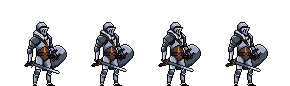
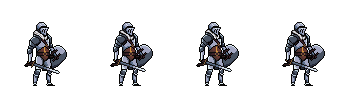
v0.1.1

diff --git a/Characters.py b/Characters.py
@@ -4,24 +4,50 @@ from customFunctions import load_sprite_sheets
 
 class Characters(pg.sprite.Sprite):
     GRAVITY = 50
-    def __init__(self, sprite_dir1, sprite_dir2,sprite_w, sprite_h, x, y, speed, jump_p, scale = 2):
+    def __init__(self, sprite_dir1, sprite_dir2,sprite_w, sprite_h, x, y,speed, jump_p,
+                 strength,dmg,hp, scale = 2):
         super().__init__()
         self.size = (sprite_w*scale, sprite_h*scale)
         self.sprites = load_sprite_sheets(sprite_dir1, sprite_dir2, sprite_w, sprite_h, scale=scale)
         self.sprite = self.sprites["Idle_right"][0]
         self.pos = list((x, y))
         self.vel = list((0, 0))
+        self.hp = hp
         self.rect = pg.Rect(x,y,sprite_w, sprite_h)
         self.jump_p = jump_p
-        self.speed = speed
+        self.speed = speed / 20
+        self.str = strength /20
+        self.dmg = dmg
         self.anim_count = 0
+        self.animation_time = 7
         self.fall_count = 0
         self.mask = pg.mask.from_surface(self.sprite)
         self.collision_x = False
         self.collision_y = False
+        self.dead = False
+        self.direction = "right"
+        self.type = "Character"
+        self.collide_with = ["Object"]
+        self.attack_rect = pg.Rect(x+self.size[0]//2, y + self.size[1] //2, sprite_w, sprite_h//3)
 
-    def draw(self, surface):
-        surface.blit(self.sprite, (self.pos[0], self.pos[1]))
+    def draw(self, surface, offset):
+        if self.vel[0] == 0 and self.vel[1] == 0:
+            self.sprite = self.sprites["Idle_"+self.direction][
+                self.anim_count // self.animation_time % len(self.sprites["Idle_"+self.direction])]
+        elif self.vel[0] != 0 and self.vel[1] == 0:
+            self.sprite = self.sprites["Run_"+self.direction][
+                self.anim_count // self.animation_time % len(self.sprites["Run_"+self.direction])]
+        elif self.vel[1] != 0:
+            self.sprite = self.sprites["Fall_"+self.direction][
+                self.anim_count // self.animation_time % len(self.sprites["Fall_"+self.direction])]
+
+        self.attack_rect.x += offset[0]
+        self.attack_rect.y += offset[1]
+        pg.draw.rect(surface, (255, 0, 0), self.attack_rect, 2)
+        self.attack_rect.x -= offset[0]
+        self.attack_rect.y -= offset[1]
+        surface.blit(self.sprite, (self.pos[0] + offset[0], self.pos[1]+offset[1]))
+        self.anim_count += 1
 
     def update(self, objects, delta_time):
         self.gravity_acc = min(1,(self.fall_count/1000 /delta_time) * self.GRAVITY)
@@ -38,19 +64,38 @@ class Characters(pg.sprite.Sprite):
         self.collision_y = False
         self.collision_x = False
         self.rect.x, self.rect.y = self.pos
+        if self.direction == "right":
+            self.attack_rect.x, self.attack_rect.y = (self.pos[0] + self.size[0]//2,
+                                                  self.pos[1] + self.size[1] //2)
+        if self.direction == "left":
+            self.attack_rect.x, self.attack_rect.y = (self.pos[0] ,
+                                                  self.pos[1] + self.size[1] //2)
+
+    def attack(self):
+        self.attack = True
+
+    def get_attacked(self, dmg):
+        self.hp -= dmg
+        if self.hp <=0:
+            self.dead = True
 
     def collide(self, objects, delta_time):
         for object in objects:
             if object != self:
-                self.rect.x += (self.vel[0] * delta_time)
-                if pg.sprite.collide_mask(self, object):
-                    self.collision_x =True
-                self.rect.x -= (self.vel[0] * delta_time)
-                self.rect.y += (self.vel[1] * delta_time)
+                if (object.type == "Enemy" and self.attack and self.melee and
+                        pg.sprite.collide_rect(self.attack_rect, object)):
+                    object.get_attacked(self.dmg, self.strength)
+                if object.type not in self.collide_with:
+                    continue
+                self.rect.y += (self.vel[1] * delta_time)+2
                 if pg.sprite.collide_mask(self, object):
                     self.collision_y =True
                     self.pos[1] = object.pos[1]-self.size[1]
-                self.rect.y -= (self.vel[1] * delta_time)
+                self.rect.y -= (self.vel[1] * delta_time)+2
+                self.rect.x += (self.vel[0] * delta_time)+50
+                if pg.sprite.collide_mask(self, object):
+                    self.collision_x =True
+                self.rect.x -= (self.vel[0] * delta_time)+50
             # if object != self:
             #     self.pos[0] += (self.vel[0] * delta_time)
             #     if pg.sprite.collide_mask(self, object):
@@ -65,6 +110,21 @@ class Characters(pg.sprite.Sprite):
     def jump(self):
         self.vel[1] -= self.jump_p//10
 
+    def moveright(self):
+        self.vel[0] = self.speed
+        self.anim_count = 0
+        self.direction = "right"
+
+    def moveleft(self):
+        self.vel[0] = -self.speed
+        self.anim_count = 0
+        self.direction = "left"
+
+    def stop(self):
+        self.vel[0] = 0
+        self.anim_count = 0
+
 class Player(Characters):
-    def __init__(self, dir1, dir2, x, y, speed, jump_p):
-        super().__init__(dir1, dir2,86, 86, x, y, speed, jump_p)
+    def __init__(self, x, y):
+        super().__init__("MainCharacters", "Knight_1",86, 86, x, y,
+                         10,10, 10, 10, 100)

diff --git a/Main.py b/Main.py
@@ -1,3 +1,4 @@
+import Objects
 import pygame as pg
 import os
 import random
@@ -22,13 +23,16 @@ FPS = 60
 window = pg.display.set_mode(WIN_SIZE, pg.RESIZABLE)
 surface = pg.Surface((1920, 1080))
 
-def draw(surface, window, objects, background):
-    win_center = (window.get_width()//2, window.get_height()//2)
+def draw(surface, window, objects, background, player):
+    win_center = (pg.display.get_surface().get_width()//2, pg.display.get_surface().get_height()//2)
     surface_center = (surface.get_width()//2, surface.get_height()//2)
-    surface.blit(background.surface, (-win_center[0]+surface_center[0], -win_center[1]+surface_center[1]))
+    offset = [win_center[0]-player.pos[0]-(player.size[0]//2),
+              win_center[1] - player.pos[1]]
+    surface.blit(background.surface, (
+        -win_center[0]+surface_center[0], -win_center[1]+surface_center[1]))
 
     for object in objects:
-        object.draw(surface)
+        object.draw(surface, offset)
 
     window.blit(surface,(win_center[0]-surface_center[0], win_center[1]-surface_center[1]))
     pg.display.update()
@@ -44,13 +48,15 @@ def main(window):
 
     objects = []
     background = Background("Tileset", "Night", 32, 32, 0)
-    objects.append(Object("Tileset", "Night", 32, 32,1000, 800))
-    objects.append(Object("Tileset", "Night", 32, 32,1064, 800))
-    objects.append(Object("Tileset", "Night", 32, 32,1128, 800))
-    objects.append(Object("Tileset", "Night", 32, 32,968, 800))
 
-    player = Characters.Player("MainCharacters", "Knight_1", 1000, 0, 10, 10)
+    # spawns ------------------------------------------------------
+    for i in range(surface.get_width()//16):
+        objects.append(Object("Tileset", "Night", 32,32,i*64,
+                              surface.get_height()-64))
+
+    player = Characters.Player(1000, 0)
     objects.append(player)
+    # --------------------------------------------------------------
 
     while run:
         delta_time = clock.tick(FPS)
@@ -63,12 +69,25 @@ def main(window):
                     run = False
                     break
                 if event.key == pg.K_SPACE:
+                    player.attack()
+                if event.key == pg.K_w:
                     player.jump()
+                if event.key == pg.K_a:
+                    player.moveleft()
+                if event.key == pg.K_d:
+                    player.moveright()
+                if event.key == pg.K_F11:
+                    pg.display.toggle_fullscreen()
+            if event.type == pg.KEYUP:
+                if event.key == pg.K_a:
+                    player.stop()
+                if event.key == pg.K_d:
+                    player.stop()
             if event.type == pg.VIDEORESIZE:
                 background.update()
 
         update(objects, delta_time)
-        draw(surface, window, objects, background)
+        draw(surface, window, objects, background, player)
 
 
     pg.quit()

diff --git a/Objects.py b/Objects.py
@@ -2,7 +2,7 @@ import pygame as pg
 from customFunctions import load_sprite_sheets
 
 class Object(pg.sprite.Sprite):
-    def __init__(self, sprite_dir1, sprite_dir2,sprite_w, sprite_h, x, y, number=2, scale=2):
+    def __init__(self, sprite_dir1, sprite_dir2,sprite_w, sprite_h, x, y, number=2, scale=2, collide=True):
         super().__init__()
         self.size = (sprite_w,sprite_h)
         self.sprites = load_sprite_sheets(sprite_dir1, sprite_dir2, sprite_w,sprite_h, direction=False, scale=scale)
@@ -10,9 +10,13 @@ class Object(pg.sprite.Sprite):
         self.pos = list((x, y))
         self.rect = pg.Rect(x,y, sprite_w,sprite_h)
         self.mask = pg.mask.from_surface(self.sprite)
+        if collide:
+            self.type = "Object"
+        else:
+            self.type = "Object!collide"
 
-    def draw(self, surface):
-        surface.blit(self.sprite, (self.pos[0], self.pos[1]))
+    def draw(self, surface, offset):
+        surface.blit(self.sprite, (self.pos[0]+offset[0], self.pos[1]+offset[1]))
 
     def update(self, objects, delta_time):
         pass
